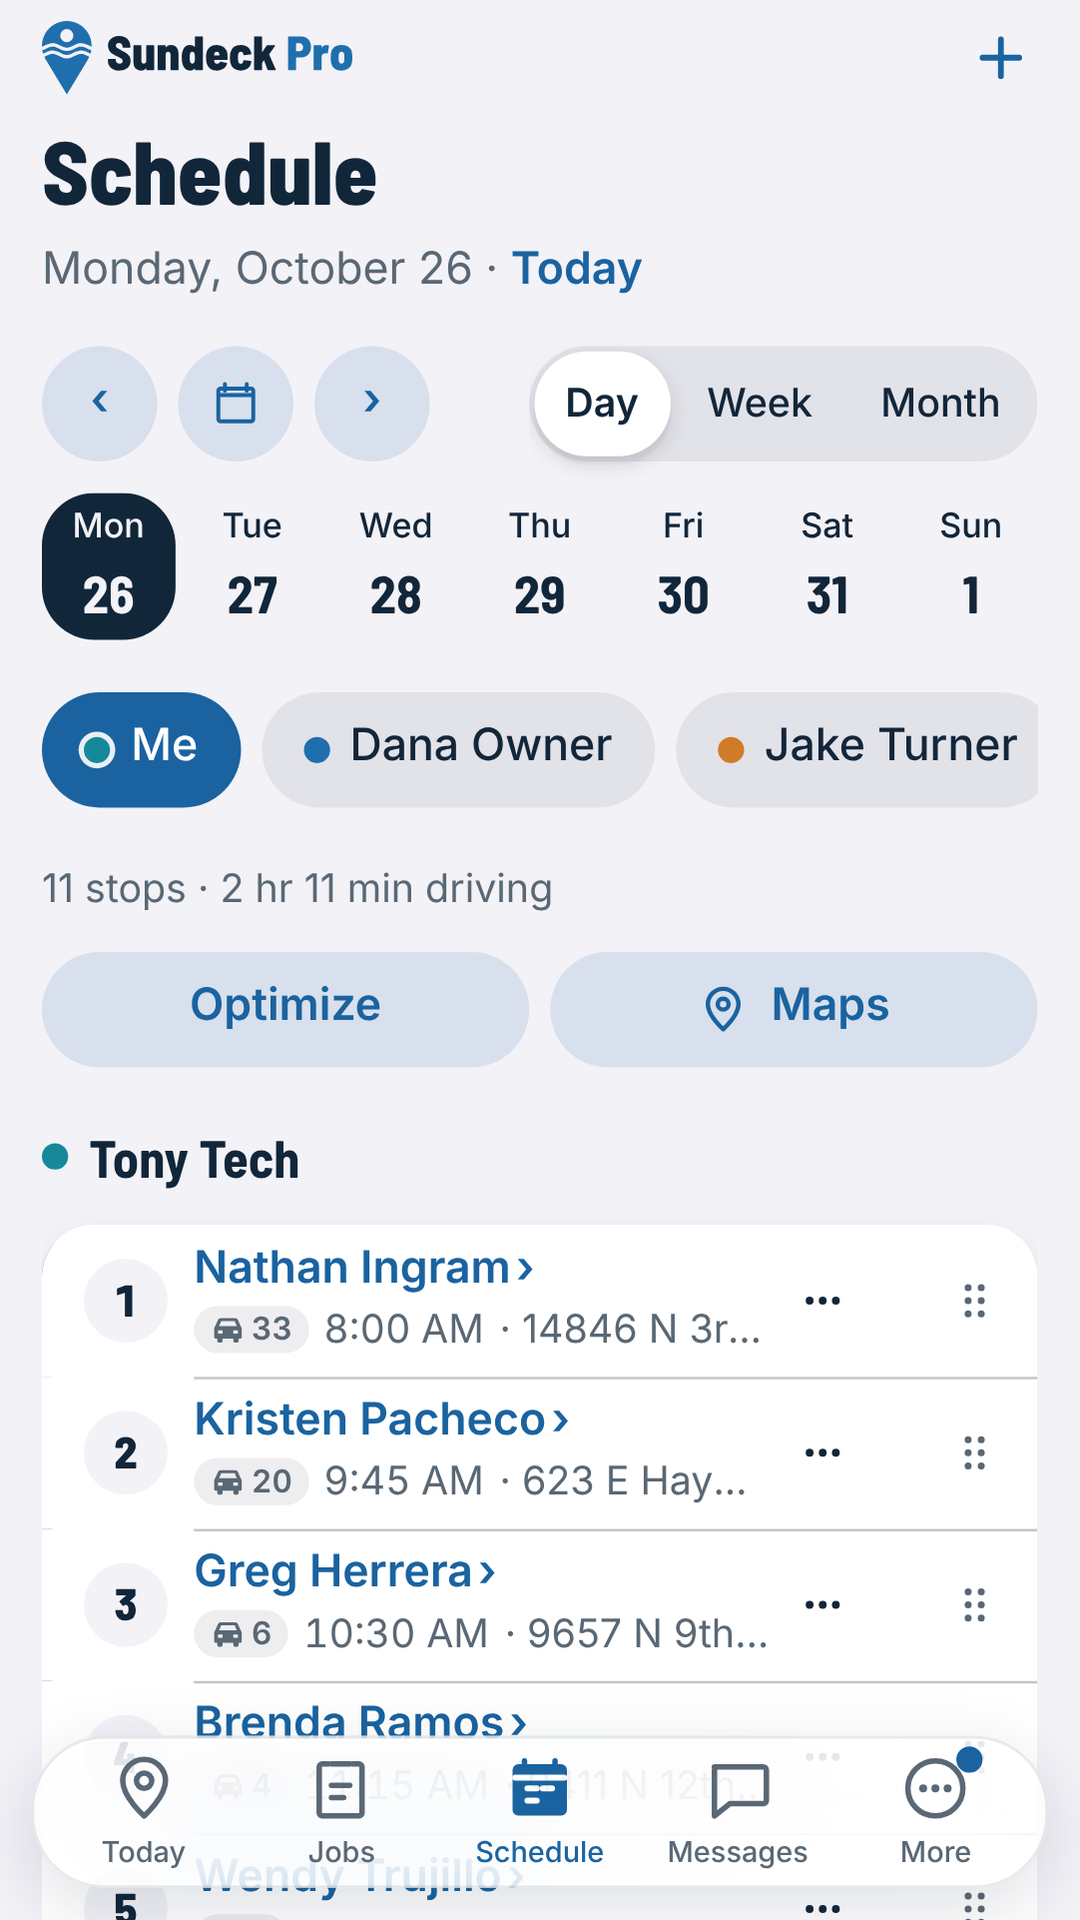
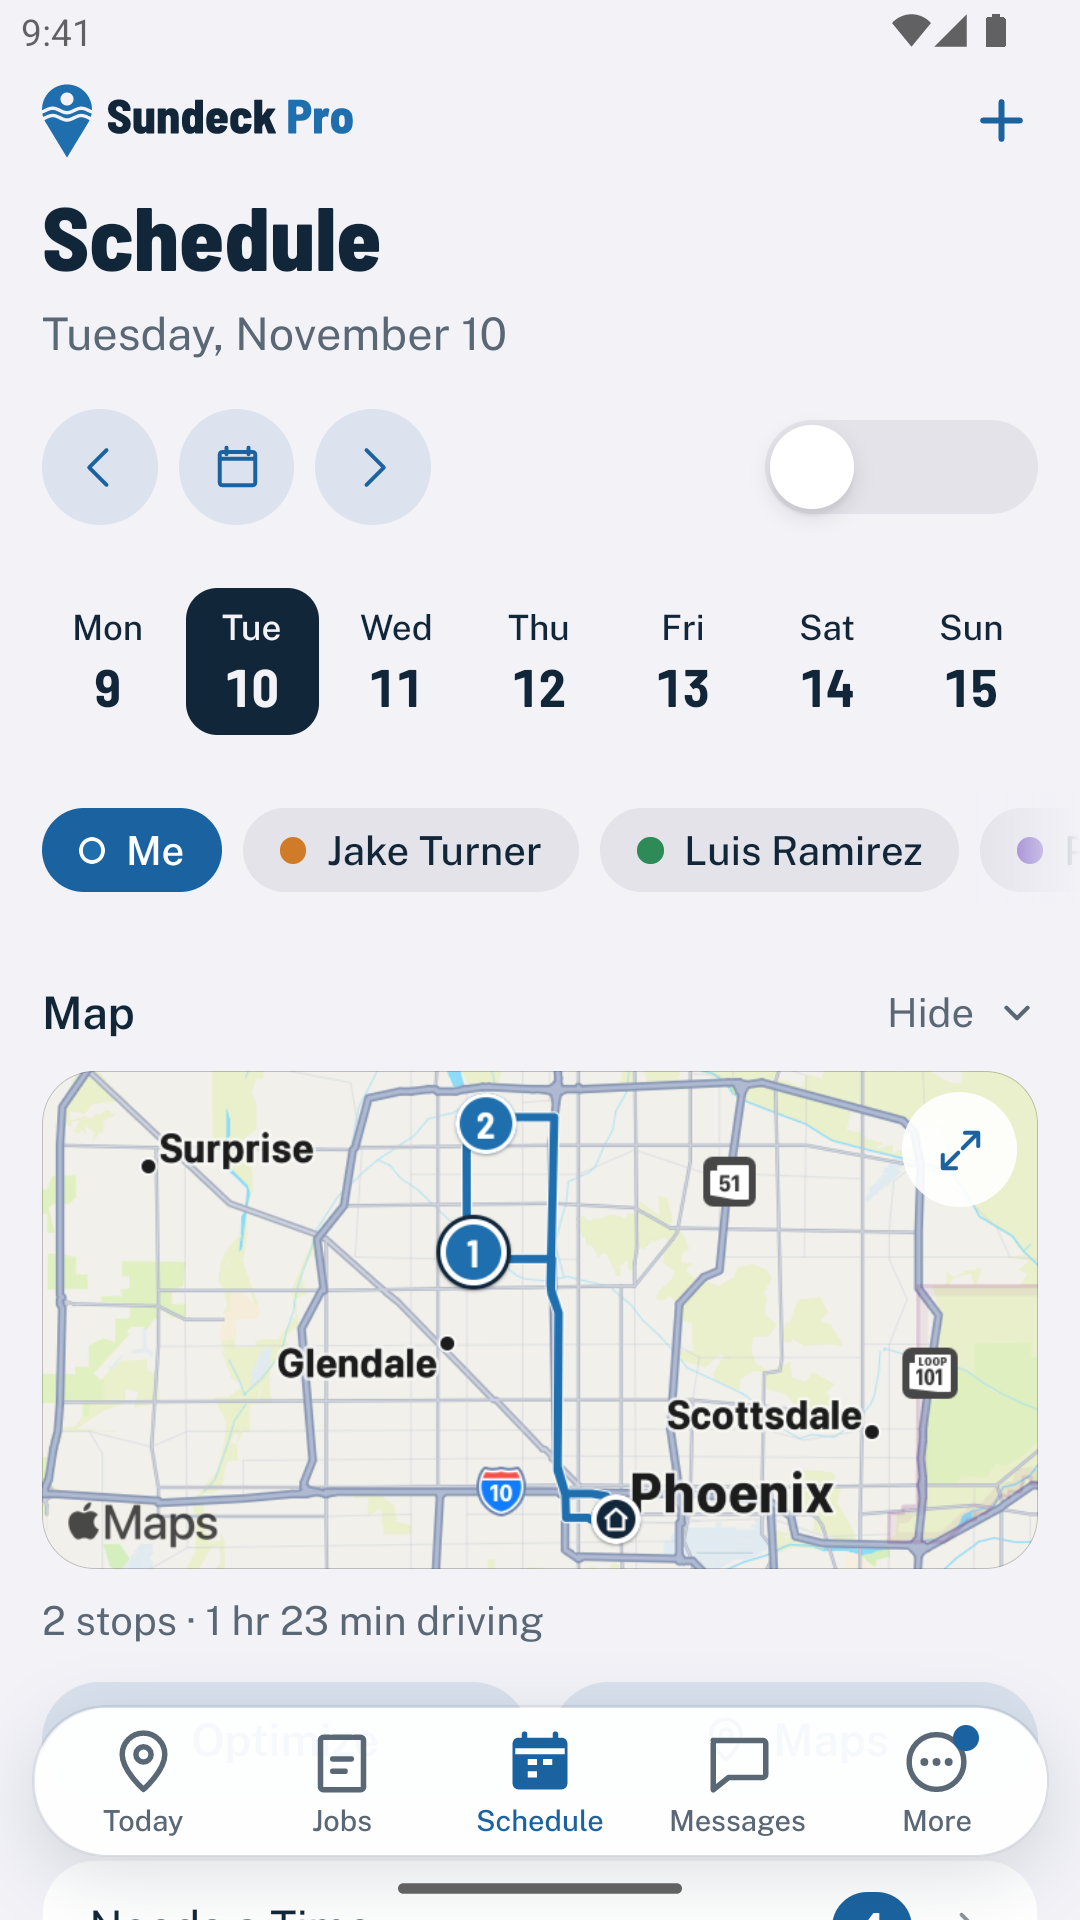
Play Store screenshots: real Android captures from the emulator workflow
Replaces the phone-website captures with the Android app (1.0.0 build 3) on a Pixel-sized
emulator, with the map and logo fixes.

Claude-Session: https://claude.ai/code/session_01FvvH9NYBuvt41S7dnunaMe

diff --git a/docs/play-store/listing.md b/docs/play-store/listing.md
@@ -64,30 +64,30 @@ All in `docs/play-store/graphics/` and `docs/play-store/screenshots/`.
 |---|---|---|
 | App icon | 512 × 512 PNG, full square (Play rounds it) | `graphics/icon-512.png` |
 | Feature graphic | 1024 × 500 PNG or JPEG | `graphics/feature-graphic.png` |
-| Phone screenshots | 2 to 8, 9:16, 1080 × 1920 | `screenshots/1-today.png` … `8-receipt.png` |
+| Phone screenshots | 2 to 8, 9:16, 1080 × 1920 | `screenshots/1-today.png` … `8-invoices.png` |
 
 The icon and feature graphic come from the generated logo and `brand/tokens.json`: edit
 `brand/scripts/build_play_graphics.mjs` and run
 `PW_CHROMIUM_PATH=/opt/pw-browsers/chromium node brand/scripts/build_play_graphics.mjs` (never
 edit the PNGs by hand).
 
-**The screenshots are captures of the phone website**, not of the Android app: no Android build
-exists yet. The Android app follows the mobile website's design and navigation
-(`docs/design/2026-10-19-native-apps-follow-web.md`), so they show the same screens, but they
-must be replaced by real Android captures once an emulator or device build exists, before the
-public (production) release. Taken at 412 × 732 CSS pixels and 2.625× (a Pixel-sized phone),
-resized to 1080 × 1920, signed in as the demo shop's tech and owner on the dev project; the
-names, addresses, and numbers are the demo shop's made-up data.
+**The screenshots are captures of the Android app** (2026-11-11), made by
+`.github/workflows/android-screenshots.yml`: the latest EAS Android build on a Pixel-sized
+emulator (1080 × 1920), signed in as the demo shop's owner on the dev project, each screen
+opened by its link (`apps/mobile/maestro/`). To retake them: `pnpm demo:reset -- --apply` (so
+the route is today's), then Actions › Android screenshots › Run workflow, and copy the
+`android-screenshots` artifact here. The names, addresses, and numbers are the demo shop's
+made-up data.
 
 | # | File | Shows |
 |---|---|---|
 | 1 | `1-today.png` | Today: the current stop card and the day's route |
-| 2 | `2-schedule.png` | Schedule: a tech's day with stops and drive times |
+| 2 | `2-schedule.png` | Schedule: the day's map and route for the team |
 | 3 | `3-jobs.png` | Jobs: the job list with statuses |
-| 4 | `4-leak-checklist.png` | A leak detection checklist with a leaking item |
-| 5 | `5-service-checklist.png` | A maintenance visit: chemical readings and the service checklist |
-| 6 | `6-wrap-up-quote-invoice.png` | Wrap-Up: report, quote, signature, and invoice for one job |
-| 7 | `7-report.png` | The customer's leak detection report (the shop's logo) |
-| 8 | `8-receipt.png` | The customer's paid invoice (receipt) |
+| 4 | `4-leak-checklist.png` | A leak detection checklist in progress |
+| 5 | `5-service-checklist.png` | A pool service visit: chemicals and the service checklist |
+| 6 | `6-wrap-up.png` | Wrap-Up: report sent, customer signature, and invoice for one job |
+| 7 | `7-review.png` | Review and Sign: the report the customer reads |
+| 8 | `8-invoices.png` | Invoices: paid invoices with amounts |
 
 The screenshots carry no text overlay.

diff --git a/docs/play-store/CHROME_HANDOFF.md b/docs/play-store/CHROME_HANDOFF.md
@@ -184,8 +184,8 @@ Requires a Sundeck Pro shop account. Owners start a free 30-day trial at sundeck
 
 - App icon: `icon-512.png`. Feature graphic: `feature-graphic.png`.
 - Phone screenshots, in this order: `1-today.png`, `2-schedule.png`, `3-jobs.png`,
-  `4-leak-checklist.png`, `5-service-checklist.png`, `6-wrap-up-quote-invoice.png`,
-  `7-report.png`, `8-receipt.png`. They're in a folder I downloaded; if you can't choose files,
+  `4-leak-checklist.png`, `5-service-checklist.png`, `6-wrap-up.png`,
+  `7-review.png`, `8-invoices.png`. They're in a folder I downloaded; if you can't choose files,
   tell me which file goes where and I'll pick them.
 - No video. Save.
 
@@ -230,9 +230,9 @@ Download these from the public repository into one folder before you start:
 - https://raw.githubusercontent.com/David0524/LeakSoftware/claude/cool-keller-efjc00/docs/play-store/screenshots/3-jobs.png
 - https://raw.githubusercontent.com/David0524/LeakSoftware/claude/cool-keller-efjc00/docs/play-store/screenshots/4-leak-checklist.png
 - https://raw.githubusercontent.com/David0524/LeakSoftware/claude/cool-keller-efjc00/docs/play-store/screenshots/5-service-checklist.png
-- https://raw.githubusercontent.com/David0524/LeakSoftware/claude/cool-keller-efjc00/docs/play-store/screenshots/6-wrap-up-quote-invoice.png
-- https://raw.githubusercontent.com/David0524/LeakSoftware/claude/cool-keller-efjc00/docs/play-store/screenshots/7-report.png
-- https://raw.githubusercontent.com/David0524/LeakSoftware/claude/cool-keller-efjc00/docs/play-store/screenshots/8-receipt.png
+- https://raw.githubusercontent.com/David0524/LeakSoftware/claude/cool-keller-efjc00/docs/play-store/screenshots/6-wrap-up.png
+- https://raw.githubusercontent.com/David0524/LeakSoftware/claude/cool-keller-efjc00/docs/play-store/screenshots/7-review.png
+- https://raw.githubusercontent.com/David0524/LeakSoftware/claude/cool-keller-efjc00/docs/play-store/screenshots/8-invoices.png
 
 ## Calls made for you in this handoff (from `data-safety.md` "Owner to confirm")
 

diff --git a/docs/play-store/README.md b/docs/play-store/README.md
@@ -86,7 +86,7 @@ https://play.google.com/console › **Create app**.
    - App category → Business; contact email `support@sundeckpro.com`.
    - Main store listing → `listing.md` (name, short and full description), the icon
      `graphics/icon-512.png`, the feature graphic `graphics/feature-graphic.png`, and the phone
-     screenshots `screenshots/1-today.png` to `8-receipt.png` in that order.
+     screenshots `screenshots/1-today.png` to `8-invoices.png` in that order.
 3. Send Claude: "Play app created", and anything a form asked that these files didn't cover.
 
 ## 6. GitHub secrets
